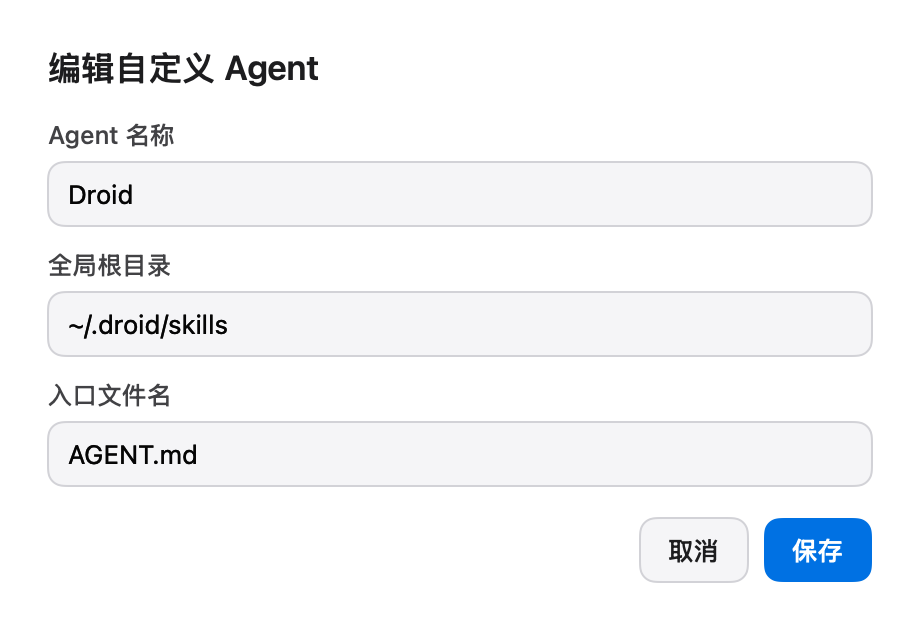
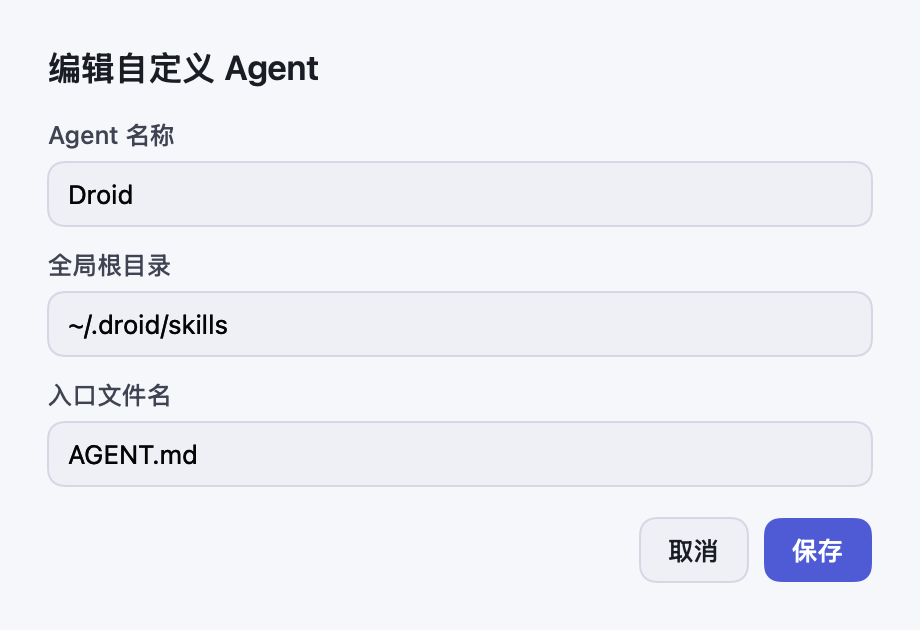
feat: cool-indigo theme, duplicate-panel UI polish
- AppTheme 切换为方案 A「靛蓝」明暗配色（背景/表面/边框/文字/强调/状态全 token）
- 重复 Skill 栏：模式分段控件加图标、组头图标着色区分、近似成员胶囊按等级着色、组名可截断收缩、移除冗余徽章
- README 截图重生成（zh + en）

Changed region(s): [[0.8217, 0.8143, 0.9739, 0.9349]]

diff --git a/Sources/SkillSelector/Design/AppTheme.swift b/Sources/SkillSelector/Design/AppTheme.swift
@@ -8,41 +8,43 @@ import SwiftUI
 enum AppTheme {
     // MARK: Colors
 
-    static let background = adaptive(light: 0xFFFFFF, dark: 0x1E1E1E)
-    static let surface = adaptive(light: 0xF5F5F7, dark: 0x272729)
-    static let surfaceWarm = adaptive(light: 0xFBFBFD, dark: 0x2A2A2C)
-    static let foreground = adaptive(light: 0x1D1D1F, dark: 0xF5F5F7)
-    static let foregroundSecondary = adaptive(light: 0x424245, dark: 0xD2D2D7)
-    static let muted = adaptive(light: 0x6E6E73, dark: 0xA1A1A6)
-    static let meta = adaptive(light: 0x86868B, dark: 0x98989D)
-    static let border = adaptive(light: 0xD2D2D7, dark: 0x48484A)
-    static let borderSoft = adaptive(light: 0xE8E8ED, dark: 0x3A3A3C)
-    static let accent = adaptive(light: 0x0071E3, dark: 0x2997FF)
-    static let accentHover = adaptive(light: 0x0077ED, dark: 0x44A5FF)
-    static let accentActive = adaptive(light: 0x0066CC, dark: 0x6AB8FF)
-    static let success = adaptive(light: 0x16A34A, dark: 0x30D158)
-    static let warn = adaptive(light: 0xEAB308, dark: 0xFFD60A)
-    static let danger = adaptive(light: 0xDC2626, dark: 0xFF453A)
-    static let badgeWarnText = adaptive(light: 0xB45309, dark: 0xF0A24D)
+    /// Scheme A — Cool Indigo: cool blue-gray neutrals with an indigo accent
+    /// (light #F6F7FB / dark #171A21 base).
+    static let background = adaptive(light: 0xF6F7FB, dark: 0x171A21)
+    static let surface = adaptive(light: 0xEEF0F6, dark: 0x1E222C)
+    static let surfaceWarm = adaptive(light: 0xFAFBFE, dark: 0x232836)
+    static let foreground = adaptive(light: 0x1B1D24, dark: 0xEAECF4)
+    static let foregroundSecondary = adaptive(light: 0x3F4352, dark: 0xC2C7D6)
+    static let muted = adaptive(light: 0x71758A, dark: 0x9AA0B5)
+    static let meta = adaptive(light: 0x8E93A8, dark: 0x8E94A8)
+    static let border = adaptive(light: 0xD5D8E4, dark: 0x3A4054)
+    static let borderSoft = adaptive(light: 0xE7E9F1, dark: 0x2C3243)
+    static let accent = adaptive(light: 0x4F5BD5, dark: 0x7B86F0)
+    static let accentHover = adaptive(light: 0x5663DE, dark: 0x8E99F3)
+    static let accentActive = adaptive(light: 0x3F4BC0, dark: 0x9AA3F5)
+    static let success = adaptive(light: 0x12A26D, dark: 0x34D399)
+    static let warn = adaptive(light: 0xD99A0B, dark: 0xFBBF24)
+    static let danger = adaptive(light: 0xD64545, dark: 0xF87171)
+    static let badgeWarnText = adaptive(light: 0x9A6A00, dark: 0xF0A24D)
 
     /// color-mix(in oklab, var(--accent), transparent 88%) — active row /
     /// selected item background.
     static let accentTint = adaptive(
-        light: blend(0x0071E3, over: 0xFFFFFF, alpha: 0.12),
-        dark: blend(0x2997FF, over: 0x1E1E1E, alpha: 0.12)
+        light: blend(0x4F5BD5, over: 0xF6F7FB, alpha: 0.12),
+        dark: blend(0x7B86F0, over: 0x171A21, alpha: 0.12)
     )
 
     /// color-mix(in oklab, var(--accent), transparent 70%) — active row
     /// border / selected segment border.
     static let accentTintBorder = adaptive(
-        light: blend(0x0071E3, over: 0xFFFFFF, alpha: 0.30),
-        dark: blend(0x2997FF, over: 0x1E1E1E, alpha: 0.30)
+        light: blend(0x4F5BD5, over: 0xF6F7FB, alpha: 0.30),
+        dark: blend(0x7B86F0, over: 0x171A21, alpha: 0.30)
     )
 
     /// rgba(255,255,255,.7) — agent chip on an active skill row.
     static let accentChip: Color = {
-        let lightTint = blend(0x0071E3, over: 0xFFFFFF, alpha: 0.12)
-        let darkTint = blend(0x2997FF, over: 0x1E1E1E, alpha: 0.12)
+        let lightTint = blend(0x4F5BD5, over: 0xF6F7FB, alpha: 0.12)
+        let darkTint = blend(0x7B86F0, over: 0x171A21, alpha: 0.12)
         return adaptive(
             light: blend(0xFFFFFF, over: lightTint, alpha: 0.70),
             dark: blend(0xFFFFFF, over: darkTint, alpha: 0.70)
@@ -53,18 +55,19 @@ enum AppTheme {
     /// both appearances, so the label stays the light-mode foreground in
     /// both — using the adaptive secondary foreground made the label
     /// near-invisible in dark mode (light-on-light).
-    static let accentChipText = Color(hex: 0x424245)
+    static let accentChipText = Color(hex: 0x3F4352)
 
-    /// Skill tile gradients (160deg) from the design.
-    static let tileTop = adaptive(light: 0x424245, dark: 0x424245)
-    static let tileBottom = adaptive(light: 0x1D1D1F, dark: 0x1D1D1F)
-    static let tileActiveTop = adaptive(light: 0x2997FF, dark: 0x2997FF)
-    static let tileActiveBottom = adaptive(light: 0x0071E3, dark: 0x0071E3)
+    /// Skill tile gradients (160deg) from the design — cool neutral in both
+    /// appearances.
+    static let tileTop = adaptive(light: 0x3A3F4E, dark: 0x3A3F4E)
+    static let tileBottom = adaptive(light: 0x1B1D24, dark: 0x1B1D24)
+    static let tileActiveTop = adaptive(light: 0x7B86F0, dark: 0x7B86F0)
+    static let tileActiveBottom = adaptive(light: 0x4F5BD5, dark: 0x4F5BD5)
 
     /// Focus ring: color-mix(in oklab, var(--accent), transparent 65%).
     static let focusRing = adaptive(
-        light: blend(0x0071E3, over: 0xFFFFFF, alpha: 0.35),
-        dark: blend(0x2997FF, over: 0x1E1E1E, alpha: 0.28)
+        light: blend(0x4F5BD5, over: 0xF6F7FB, alpha: 0.35),
+        dark: blend(0x7B86F0, over: 0x171A21, alpha: 0.28)
     )
 
     /// Toast: rgba(29,29,31,.94) pill with #f5f5f7 text.
@@ -73,32 +76,32 @@ enum AppTheme {
     /// Hover tint for destructive text buttons:
     /// color-mix(in oklab, var(--danger), transparent 92%).
     static let dangerTint = adaptive(
-        light: blend(0xDC2626, over: 0xFFFFFF, alpha: 0.08),
-        dark: blend(0xFF453A, over: 0x1E1E1E, alpha: 0.12)
+        light: blend(0xD64545, over: 0xF6F7FB, alpha: 0.08),
+        dark: blend(0xF87171, over: 0x171A21, alpha: 0.12)
     )
 
     /// Hover tint for accent text buttons:
     /// color-mix(in oklab, var(--accent), transparent 92%).
     static let accentTintFaint = adaptive(
-        light: blend(0x0071E3, over: 0xFFFFFF, alpha: 0.08),
-        dark: blend(0x2997FF, over: 0x1E1E1E, alpha: 0.12)
+        light: blend(0x4F5BD5, over: 0xF6F7FB, alpha: 0.08),
+        dark: blend(0x7B86F0, over: 0x171A21, alpha: 0.12)
     )
 
     /// Pill warning background: color-mix(in oklab, var(--warn), transparent 85%).
     static let warnTint = adaptive(
-        light: blend(0xEAB308, over: 0xFFFFFF, alpha: 0.15),
-        dark: blend(0xFFD60A, over: 0x1E1E1E, alpha: 0.15)
+        light: blend(0xD99A0B, over: 0xF6F7FB, alpha: 0.15),
+        dark: blend(0xFBBF24, over: 0x171A21, alpha: 0.15)
     )
 
     /// Markdown element accents (amber on light, amber-300 on dark).
-    static let codeInline = adaptive(light: 0xB45309, dark: 0xFBBF24)
+    static let codeInline = adaptive(light: 0xA16207, dark: 0xFBBF24)
 
     /// Markdown blockquote tint (violet-700 / violet-300).
     static let blockquote = adaptive(light: 0x6D28D9, dark: 0xA78BFA)
 
     /// Fenced code block background — clearly darker/lighter than the warm
     /// card surface so blocks read as distinct panels.
-    static let codeBlockBackground = adaptive(light: 0xEBEBED, dark: 0x222224)
+    static let codeBlockBackground = adaptive(light: 0xE8EAF2, dark: 0x10141A)
 
     // MARK: Fonts
 

diff --git a/Sources/SkillSelector/Browser/DuplicateGroupsView.swift b/Sources/SkillSelector/Browser/DuplicateGroupsView.swift
@@ -112,11 +112,13 @@ struct DuplicateGroupsView: View {
             .foregroundStyle(AppTheme.muted)
             Spacer(minLength: 8)
             Picker(L10n.string("Duplicate Mode"), selection: $mode) {
-                Text(verbatim: L10n.string("Exact Duplicates")).tag(Mode.exact)
-                Text(verbatim: L10n.string("Near Duplicates")).tag(Mode.near)
+                Label(L10n.string("Exact Duplicates"), systemImage: "doc.on.doc.fill")
+                    .tag(Mode.exact)
+                Label(L10n.string("Near Duplicates"), systemImage: "arrow.left.arrow.right")
+                    .tag(Mode.near)
             }
             .pickerStyle(.segmented)
-            .frame(width: 190)
+            .frame(width: 232)
             .accessibilityLabel(L10n.string("Duplicate Mode"))
         }
         .padding(.leading, 16)
@@ -281,18 +283,21 @@ private struct DuplicateGroupSection: View {
             HStack(spacing: 6) {
                 Image(systemName: "doc.on.doc.fill")
                     .font(.system(size: 12))
-                    .foregroundStyle(AppTheme.meta)
+                    .foregroundStyle(AppTheme.success)
                 HighlightedText(
                     text: groupName,
                     query: highlightQuery,
                     font: AppTheme.body(12, weight: .semibold),
                     baseColor: AppTheme.muted
                 )
+                .lineLimit(1)
+                .truncationMode(.tail)
                 Text(verbatim: String.localizedStringWithFormat(
                     L10n.string("Duplicate Members Count"), group.members.count
                 ))
                 .font(AppTheme.body(11))
                 .foregroundStyle(AppTheme.meta)
+                .fixedSize()
                 Spacer(minLength: 8)
                 GroupHeaderActions(
                     ignoreHelp: L10n.string("Ignore Duplicate Group"),
@@ -341,21 +346,26 @@ private struct NearDuplicateGroupSection: View {
             HStack(spacing: 6) {
                 Image(systemName: "doc.on.doc")
                     .font(.system(size: 12))
-                    .foregroundStyle(AppTheme.meta)
+                    .foregroundStyle(AppTheme.accent)
                 HighlightedText(
                     text: groupName,
                     query: highlightQuery,
                     font: AppTheme.body(12, weight: .semibold),
                     baseColor: AppTheme.muted
                 )
+                .lineLimit(1)
+                .truncationMode(.tail)
                 Text(verbatim: String.localizedStringWithFormat(
                     L10n.string("Near Members Count"), group.members.count
                 ))
                 .font(AppTheme.body(11))
                 .foregroundStyle(AppTheme.meta)
-                Text(verbatim: similarityRangeLabel)
-                    .font(AppTheme.body(11))
-                    .foregroundStyle(AppTheme.meta)
+                .fixedSize()
+                if !similarityRangeLabel.isEmpty {
+                    Text(verbatim: similarityRangeLabel)
+                        .font(AppTheme.body(11))
+                        .foregroundStyle(AppTheme.meta)
+                }
                 Spacer(minLength: 8)
                 GroupHeaderActions(
                     ignoreHelp: L10n.string("Ignore Near Duplicate Group"),
@@ -380,10 +390,19 @@ private struct NearDuplicateGroupSection: View {
                     .overlay(alignment: .topTrailing) {
                         Text(verbatim: "≈\(member.similarityPercent)%")
                             .font(AppTheme.body(10.5, weight: .medium))
-                            .foregroundStyle(AppTheme.muted)
+                            .foregroundStyle(
+                                member.similarityPercent >= 90
+                                    ? AppTheme.accentActive
+                                    : AppTheme.muted
+                            )
                             .padding(.horizontal, 7)
                             .padding(.vertical, 1)
-                            .background(AppTheme.surface, in: Capsule())
+                            .background(
+                                member.similarityPercent >= 90
+                                    ? AppTheme.accentTint
+                                    : AppTheme.surface,
+                                in: Capsule()
+                            )
                             .overlay {
                                 Capsule().stroke(AppTheme.borderSoft, lineWidth: 1)
                             }
